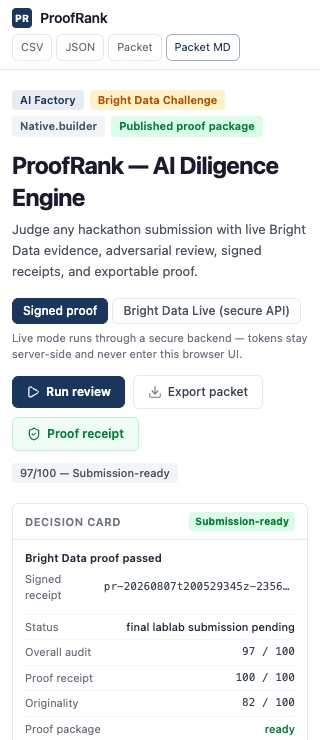
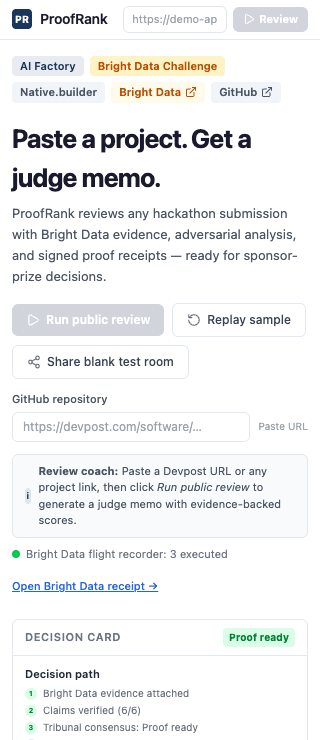
Finalize submission readiness

diff --git a/submission/operator-handoff.md b/submission/operator-handoff.md
@@ -4,20 +4,19 @@ Date: 2026-08-08
 
 ## What Is Ready
 
-- Latest polished local commit: `840f1f2 Make public review flow submission-ready`
-- Public fallback/live app target: https://proofrank-ai-factory.vercel.app/ (currently stale until commit `840f1f2` or newer is deployed)
+- Public fallback/live app target: https://proofrank-ai-factory.vercel.app/ (deployed and verified)
 - GitHub Pages backup: https://vishwa-docs.github.io/proofrank-ai-factory/
 - Public repo: https://github.com/Vishwa-docs/proofrank-ai-factory
 - Refreshed demo video release asset: https://github.com/Vishwa-docs/proofrank-ai-factory/releases/download/proofrank-submission-v1/proofrank-demo.mp4
 - Workflow replay JSON release asset: https://github.com/Vishwa-docs/proofrank-ai-factory/releases/download/proofrank-submission-v1/workflow-proof.json
 - Workflow replay screenshot release asset: https://github.com/Vishwa-docs/proofrank-ai-factory/releases/download/proofrank-submission-v1/workflow-proof.png
-- Native.builder render check artifact: `submission/native-builder-render-check.json` currently fails because the published Native.builder bundle is stale. Regenerate it after the latest local UI copy is republished.
+- Native.builder render check artifact: `submission/native-builder-render-check.json` passes on desktop and 320px mobile.
 - Native.builder desktop screenshot: `submission/demo-assets/native-builder-desktop.png`
 - Native.builder 320px screenshot: `submission/demo-assets/native-builder-mobile-320.png`
 - Public live API shell: https://proofrank-ai-factory.vercel.app/api/review-project
 - Public live API health check: https://proofrank-ai-factory.vercel.app/api/health
-- Published Native.builder app: https://80wmf4jpjww3g4j6wcymx9m8t.nativelyai.app/ (currently stale until republished)
-- Native.builder status: published, but republish is required to sync the latest local UI. Current public probe still shows old forbidden copy, so do not use it as the primary submission app until `npm run native:render-check` passes. The target first viewport should show public project links, Run public review as the default action, Share blank test room, the review coach, the Bright Data flight recorder, and final lablab.ai submission pending.
+- Published Native.builder app: https://80wmf4jpjww3g4j6wcymx9m8t.nativelyai.app/ (published and verified)
+- Native.builder status: final public bundle verified by `npm run native:render-check`. The first viewport shows public project links, Run public review, Replay sample, Share blank test room, the review coach, the Bright Data flight recorder, and final lablab.ai submission pending. The public probe confirms no visible `Signed proof` or `Submission-ready` copy.
 - Native.builder prompt: `submission/native-builder-prompt.md`
 - Native.builder project workspace: https://builder.nativelyai.com/projects/878e0701-19ff-4ff3-9624-4513d891d1dd
 - Submission copy: `submission/submission-copy.md`, `submission/checklist.md`, and `submission/project-description.md`
@@ -33,12 +32,11 @@ Date: 2026-08-08
 
 ## What I Need From You
 
-0. Publish latest fallback app
-   - Explicitly approve publishing the local commit to GitHub and Vercel production.
-   - Push commit `840f1f2` or newer to `Vishwa-docs/proofrank-ai-factory`.
-   - Deploy the linked Vercel project `proofrank-ai-factory`.
-   - Verify with `PROOFRANK_URL=https://proofrank-ai-factory.vercel.app/ npm run visual:check`.
-   - Success condition: the hosted Vercel app starts with a blank public review state, shows the GitHub/demo inputs near the top, includes the receipt verifier, and contains no visible `Signed proof` or `Submission-ready` copy.
+0. Final lablab.ai submission
+   - Submit from the authenticated team-owner lablab.ai account.
+   - Paste the verified Native.builder URL as the primary demo application URL.
+   - Paste the GitHub repository and demo video release asset.
+   - After submission, record the final lablab submission URL in `PROOFRANK_LABLAB_SUBMISSION_URL` and rerun `npm run final:audit` if you want the machine-readable audit to show 11/11.
 
 1. Bright Data source/search/discovery review
    - The replacement admin key now passes Bright Data account auth.
@@ -54,9 +52,9 @@ Date: 2026-08-08
 
 2. Native.builder publish
    - Open the Native.builder project workspace: `https://builder.nativelyai.com/projects/878e0701-19ff-4ff3-9624-4513d891d1dd`.
-   - Current Native.builder status: you logged in, created `JackB's Workspace`, pasted `submission/native-builder-prompt.md`, completed Product Architect and Task Planner passes, built the MVP surface, verified the preview, and published the final app.
+   - Current Native.builder status: you logged in, created `JackB's Workspace`, pasted the final publish prompt, completed the builder/autofix passes, verified the preview, and published the final app.
    - Public app URL: `https://80wmf4jpjww3g4j6wcymx9m8t.nativelyai.app/`.
-   - Current public Native.builder probe is stale after the latest local UI pass. Republish and rerun `npm run native:render-check`; the target copy is `Run public review`, `Share blank test room`, `What to fix next`, `Readiness`, `Bright Data flight recorder`, and `Open Bright Data receipt`.
+   - Current public Native.builder probe passes. `submission/native-builder-render-check.json` records bundle `/assets/index-Cir4266V.js` and clean desktop/mobile viewports.
    - Cache note: a Safari tab that loaded before republish may still show the older bundle until hard refreshed; the render check uses a cache-busting URL and records the current published bundle.
    - Secure-live note: Native.builder reported that fully native Bright Data Live mode requires Supabase Edge Functions for secret storage. That remains the preferred non-demo Native.builder path, but connecting it may create persistent access, so it needs action-time confirmation before clicking.
    - Apply promo code `AIFACTORY26` if prompted later.
@@ -113,4 +111,4 @@ npm run live:smoke -- https://github.com/Vishwa-docs/proofrank-ai-factory https:
 
 ## Current Honest Status
 
-ProofRank has a polished local product package, collateral package, Bright Data saved review JSON with executed MCP traces, and secured public Vercel live API shell. The latest local UI still needs Vercel/GitHub production publish, Native.builder republish, and public verification. Remaining gates: public fallback publish, Native.builder render check, and final lablab.ai submission from the authenticated team-owner account.
+ProofRank has a polished product package, verified Native.builder primary app, deployed Vercel fallback/live API, collateral package, Bright Data saved review JSON with executed MCP traces, and final readiness audit at 10/11 required gates. The only remaining required gate is the final lablab.ai submission from the authenticated team-owner account.

diff --git a/submission/native-builder-prompt.md b/submission/native-builder-prompt.md
@@ -22,13 +22,14 @@ Create a functional deployed app, not a landing page. The first screen must be a
    - Originality
    - Presentation
 7. User selects a project.
-8. Before a visitor selects or runs a project, Review must show a blank public test room state, not the ProofRank sample result. It should say "Paste a project to get a judge memo" and show the first three steps: Paste, Review, Verify.
-9. Review shows What to fix next, the scorecard, field comparison, Review Panel, Winner Benchmark, Similarity Check, and Claim Check after a project is selected.
-10. Links tab shows full project intake, event collection, advanced live review API, and readiness checklist.
-11. Links tab also includes a collapsed Presentation check. A user can paste a demo transcript or pitch notes, analyze them locally, and see which presentation claims still need evidence.
-12. Evidence tab starts with a public Receipt verifier. A user can paste exported ProofRank evidence JSON or load the selected receipt. Browser verification checks trace digest consistency, Bright Data source/search/discovery coverage, and claim support. Full HMAC validation stays server-side because secrets must not be pasted into the browser.
-13. Evidence tab shows source-backed review evidence and a source table that distinguishes executed Bright Data, direct fallback, planned, claimed, pending, and failed collection.
-14. User exports CSV, all review evidence JSON, selected review JSON, and review memo Markdown.
+8. Before a visitor selects or runs a project, Review must show a blank public test room state, not the ProofRank sample result. It should say "Paste a project. Get a judge memo." and show the first three steps: Paste, Review, Verify.
+9. After a public review runs, the result must lead with a decision path and a copyable judge readout. The readout should summarize decision, Bright Data evidence state, sponsor-prize fit, and the next concrete fix in plain language.
+10. Review shows What to fix next, the scorecard, field comparison, Review Panel, Winner Benchmark, Similarity Check, and Claim Check after a project is selected.
+11. Links tab shows full project intake, event collection, advanced live review API, and readiness checklist.
+12. Links tab also includes a collapsed Presentation check. A user can paste a demo transcript or pitch notes, analyze them locally, and see which presentation claims still need evidence.
+13. Evidence tab starts with a public Receipt verifier. A user can paste exported ProofRank evidence JSON or load the selected receipt. Browser verification checks trace digest consistency, Bright Data source/search/discovery coverage, and claim support. Full HMAC validation stays server-side because secrets must not be pasted into the browser.
+14. Evidence tab shows source-backed review evidence and a source table that distinguishes executed Bright Data, direct fallback, planned, claimed, pending, and failed collection.
+15. User exports CSV, all review evidence JSON, selected review JSON, and review memo Markdown.
 
 ## Required UI
 
@@ -39,7 +40,7 @@ Use a calm lablab-style event layout. The first viewport must explain the projec
 - The first viewport must not look crowded. Put samples, review lens, starter projects, blank test room link, ProofRank sample result, external sample, and Bright Data setup actions inside More options.
 - Decision card shows the selected ProofRank sample result, Bright Data evidence attached, review ID `pr-20260807t200529345z-23568b05`, still needs lablab.ai submission, and Native app published. Do not imply the final lablab.ai submission is already complete. Keep detailed numeric scoring inside the score breakdown.
 - Review tab starts with What to fix next before the long scorecard. It shows score if judged today for evidence-backed projects, but for visitor-created drafts it must say Draft / No ranking score until public or Bright Data evidence runs.
-- Result starts with the decision, why it matters, and the next click. Keep detailed rubric, market-position, pitch, field-comparison, similarity, and claim-ledger sections inside collapsible analysis drawers so the review does not look like a wall of data.
+- Result starts with the decision path, why it matters, and the next click. Put a visible Copy judge readout action near the decision so judges can copy a concise memo without opening the long analysis. Keep detailed rubric, market-position, pitch, field-comparison, similarity, and claim-ledger sections inside collapsible analysis drawers so the review does not look like a wall of data.
 - Result includes a compact Bright Data evidence panel or drawer. It must show the exact Bright Data source/search/discovery run (`scrape_as_markdown`, `search_engine`, `discover`), the review ID, and the judge-safe replay state. This strip should explain that planned, claimed, direct, failed, pending, or event-intake-only traces do not count.
 - Result includes a Draft Review Card only for visitor-created draft projects. It must say Link-only, GitHub URL accepted/content not fetched, demo URL supplied/reachability not checked, and Bright Data evidence pending. Its copied summary must include the limitation that no repo/demo fetch, functionality check, or Bright Data evidence has run yet. Draft projects must not show High risk, Review score 10, finalist-ready language, or any final verdict before public or Bright Data evidence runs.
 - If the user runs Presentation check, Result shows a compact pitch evidence panel. It must say the source is pasted transcript text, not video verification, and that Bright Data evidence status stays separate.

diff --git a/submission/lablab-form-fields.md b/submission/lablab-form-fields.md
@@ -71,13 +71,11 @@ Web App
 
 ## Demo Application URL
 
-Use this after the final Native.builder republish/recheck passes:
-
 ```text
 https://80wmf4jpjww3g4j6wcymx9m8t.nativelyai.app/
 ```
 
-If Native.builder is still stale, publish commit `840f1f2` or newer to the fallback app first, verify it with `PROOFRANK_URL=https://proofrank-ai-factory.vercel.app/ npm run visual:check`, then use:
+Verified fallback/live API app:
 
 ```text
 https://proofrank-ai-factory.vercel.app/
